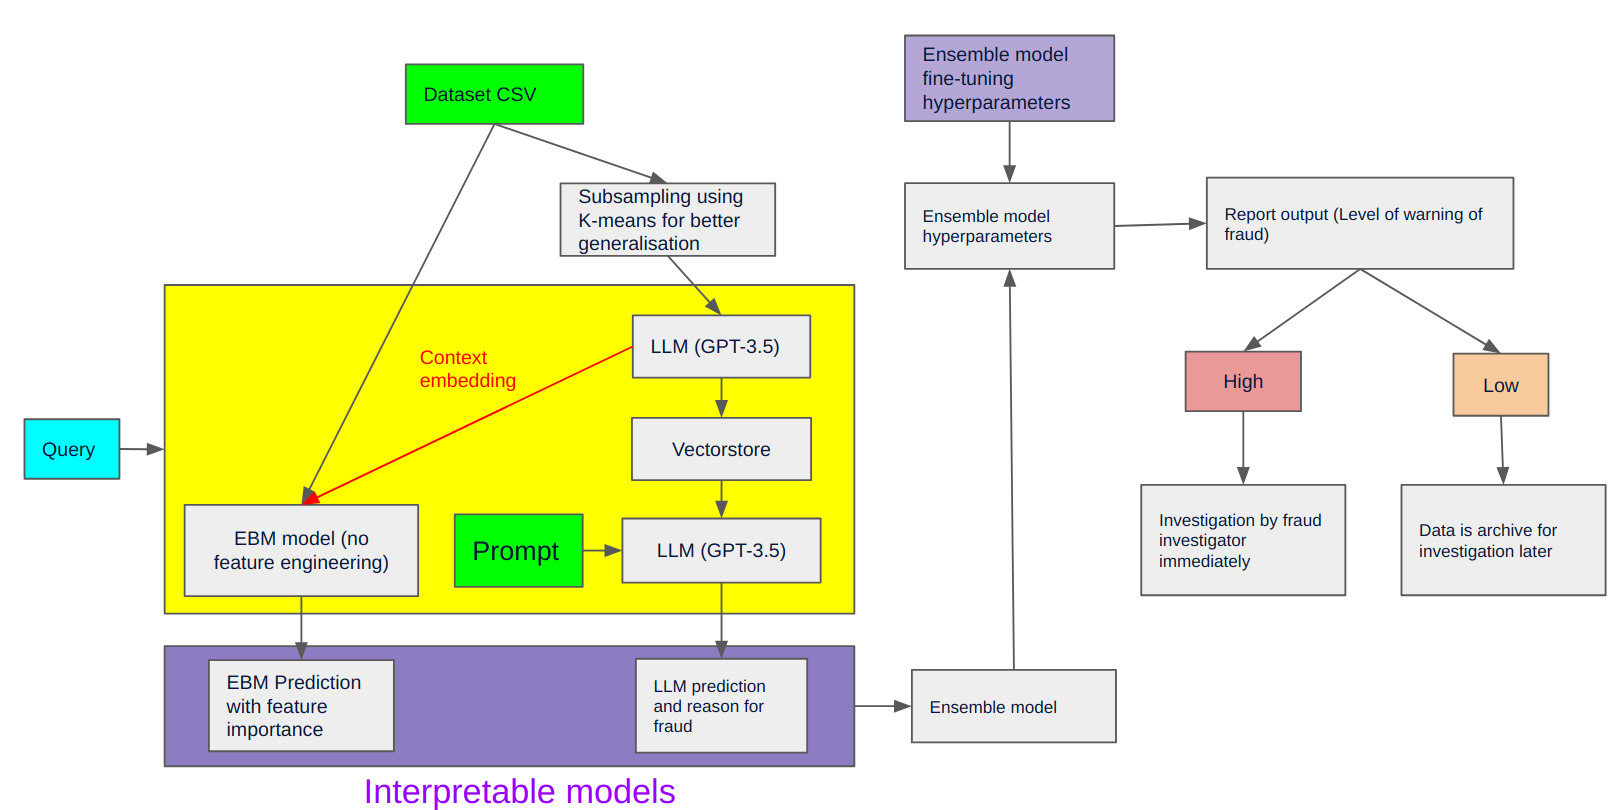
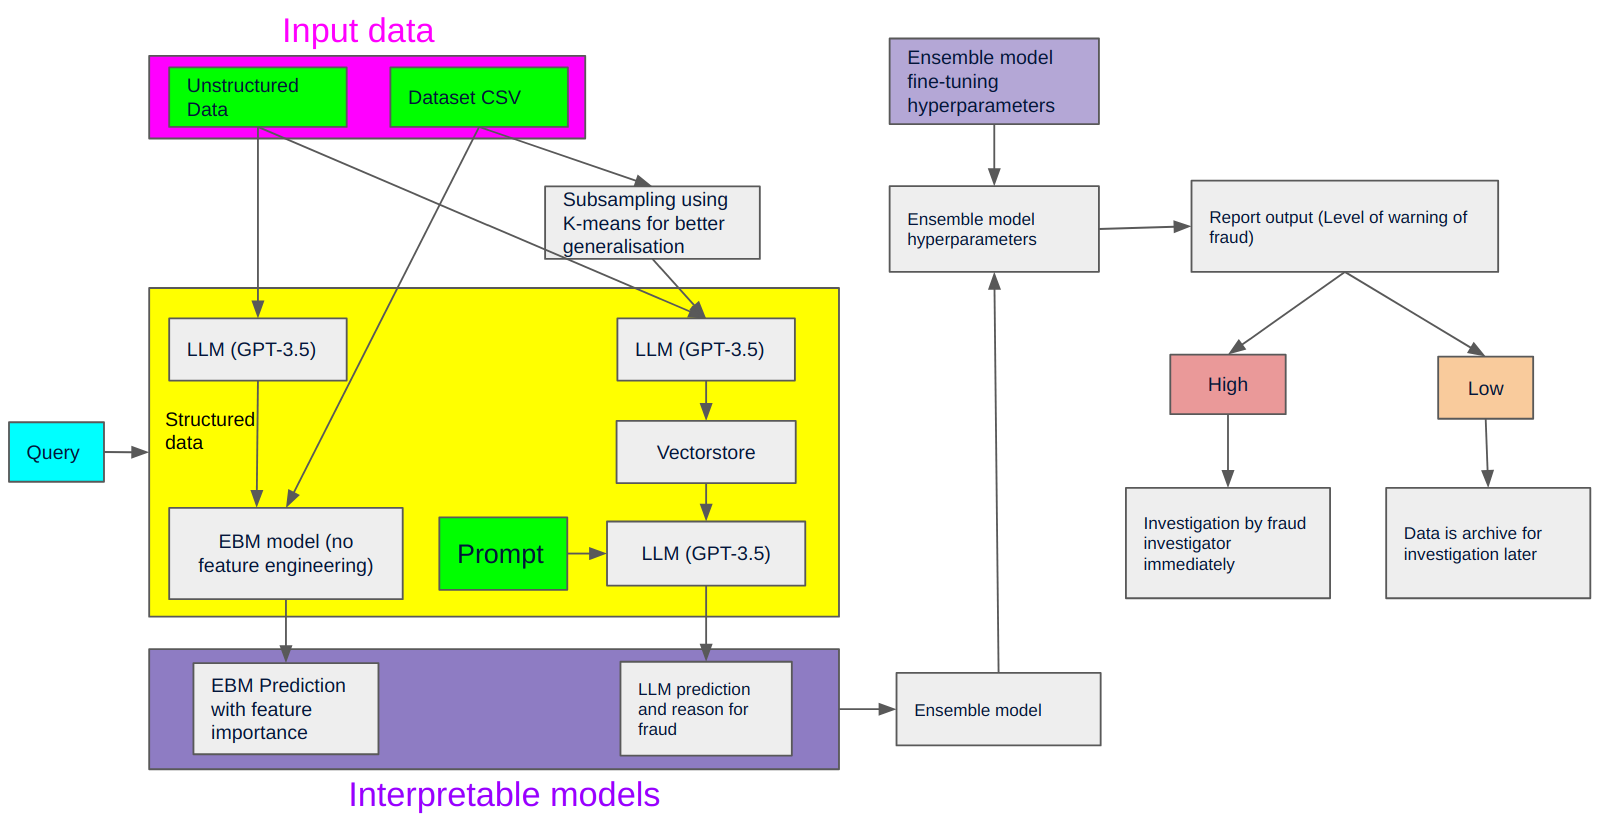
updated content for problem 10

diff --git a/fraud_detection.html b/fraud_detection.html
@@ -88,29 +88,43 @@
               <p>Above shows the overview of the proposed solution for fraud detection.</p>
 
               <p>In our proposed solution, we will train an explanable boosting machine (EBM) and Predict fraud using Large language model through referencing from a generalised dataset.</p>
-              <p></p>
+              <p>This dataset can be made up of structured and unstructured data. Structured data can be feed into the models for training directly. Unstructured data will be converted to contextual embedding before feeding into the EBM model.</p>
+              <p>Both outputs from the EBM and LLM are interpretable to enable the user to understand how the models made the prediction.</p>
+              <p>The outputs of the EBM and LLM models will be weighted differently to classify the fraud warning as high or low.</p>
+              <p>Cases that are predicted to have high level of fraud warnings will be prioritize for investigation first. Hence, optimizing the allocation of manpower for investigation.</p>
               <h2 class="h2 mb-3">Details of LLM for fraud detection</h2>
               <img src="assets/img/fraud/llm_details.png" alt="Image" class="img-fluid">
               <p>Above shows the details of using LLM to detect fraud</p>
-              <h2 class="h2 mb-3">Generalisation of subsampled data</h2>
-              <img src="assets/img/fraud/kmeans.png" alt="Image" class="img-fluid">
-              <p>K-means is used to obtain subsampled data.</p>
-              <h2 class="h2 mb-3">EBM global explanability</h2>
-              <img src="assets/img/fraud/ebm_global_demo.png" alt="Image" class="img-fluid">
-              <p>EBM global explanability can help to track concept drift in data</p>
-              <h2 class="h2 mb-3">EBM local explanability</h2>
-              <img src="assets/img/fraud/ebm_local_demo.png" alt="Image" class="img-fluid">
-              <p>EBM is used to explain the prediction based on the effects of the features</p>
-              <p>The reasoning from EBM will then be compared to the LLM for consistency</p>
+              <p>A generalised set of data will be save as contextual embedding in the VectorStore for reference.</p>
+              <p>When the user make a query for a fraud prediction. The LLM will make reference from the vectorStore to make prediction for potential fraud.</p>
+              <p>From actual testing, the LLM is not able to give consistent result for fraud prediction. To address this, we will be using Reinforced learning human feedback and Low-rank adapters to improve its ability to make fraud predictions.</p>
+              <p>See below for the LLM fraud prediction output</p>
               <h2 class="h2 mb-3">Prediction from LLM model</h2>
               <img src="assets/img/fraud/llm_output.png" alt="Image" class="img-fluid">
-              <p>Prediction from LLM will provide the reasons for the prediction</p>
+              <p>Prediction from LLM will provide the fraud prediction and its reasons for the prediction</p>
+              <h2 class="h2 mb-3">Generalisation of subsampled data</h2>
+              <img src="assets/img/fraud/kmeans.png" alt="Image" class="img-fluid">
+              <p>K-means is used to obtain a subsampled data from the raw dataset to ensure good generalisation of a subsampled data. This is because it is very costly to save all the data in the vectorstore for reference whenever a prediction is needed from the LLM.</p>
+              <h2 class="h2 mb-3">EBM global explanability</h2>
+              <img src="assets/img/fraud/ebm_global_demo.png" alt="Image" class="img-fluid">
+              <p>The EBM provides a global explanability for the relationship between the features and the label.</p>
+              <p>EBM global explanability can help to track concept drift in data and automatically trigger the re-training of the AI models if required.</p>
+              <h2 class="h2 mb-3">EBM local explanability</h2>
+              <img src="assets/img/fraud/ebm_local_demo.png" alt="Image" class="img-fluid">
+              <p>EBM is used to explain the prediction based on the effects of the features on the label prediction.</p>
+              <p>See below for an example of a full breakdown of the effects from the features on its label. (Fraud is predicted in this cases)</p>
               <h2 class="h2 mb-3">Prediction from EBM</h2>
               <img src="assets/img/fraud/ebm_output.png" alt="Image" class="img-fluid">
               <p>Prediction from EBM will provide the reasons for the prediction</p>
+              <p>The reasoning from EBM will then be compared to the LLM for consistency.</p>
+              <p>The EBM and LLM will form an ensemble model for fraud prediction.</p>
+              <h2 class="h2 mb-3">Confusion matrix of fraud prediction from EBM</h2>
+              <img src="assets/img/fraud/cm.png" alt="Image" class="img-fluid">
+              <p>The confusion matrix shows the fraud prediction without any fine-tuning and threshold adjustment.</p>
+              <p>Even without any human intervention, the EBM is highly effective in predicting fraud cases with very high recall and precision.</p>
               <h2 class="h2 mb-3">Advantage of interpretable ensemble model</h2>
               <img src="assets/img/fraud/union.png" alt="Image" class="img-fluid">
-              <p>EBM and LLM works hand in hand to provide a better solution</p>
+              <p>EBM and LLM works hand in hand to provide a better solution. EBM is able handle structured data better while LLM model is able to handle unstructured data better.</p>
             </div>
             <div class="col-md-3 ml-auto" data-aos="fade-up" data-aos-delay="100">
               <div class="sticky-content">
